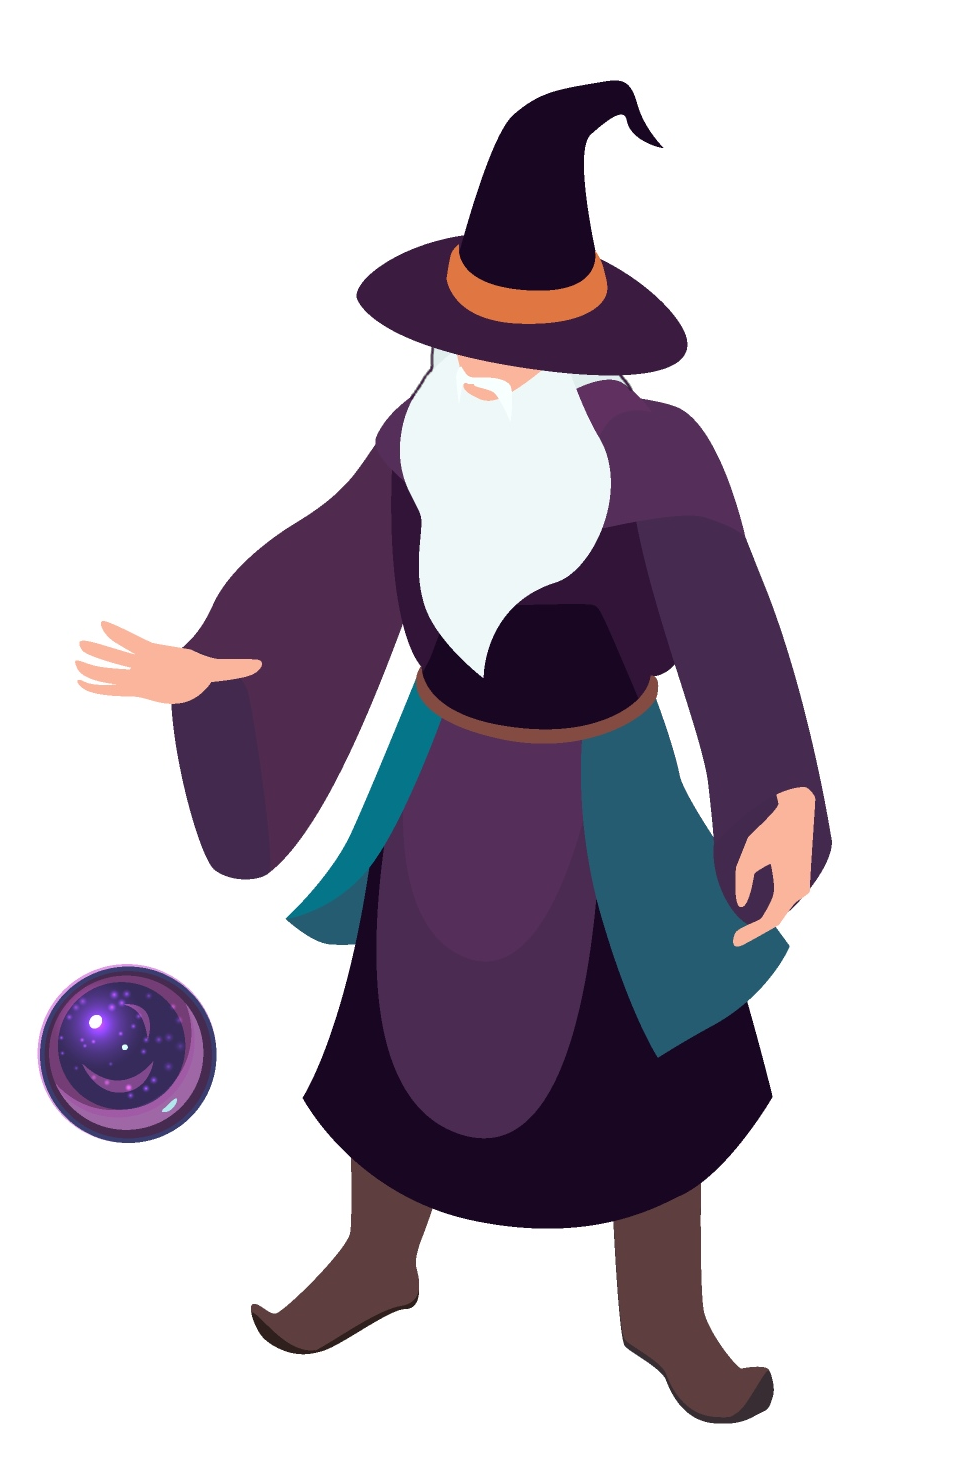
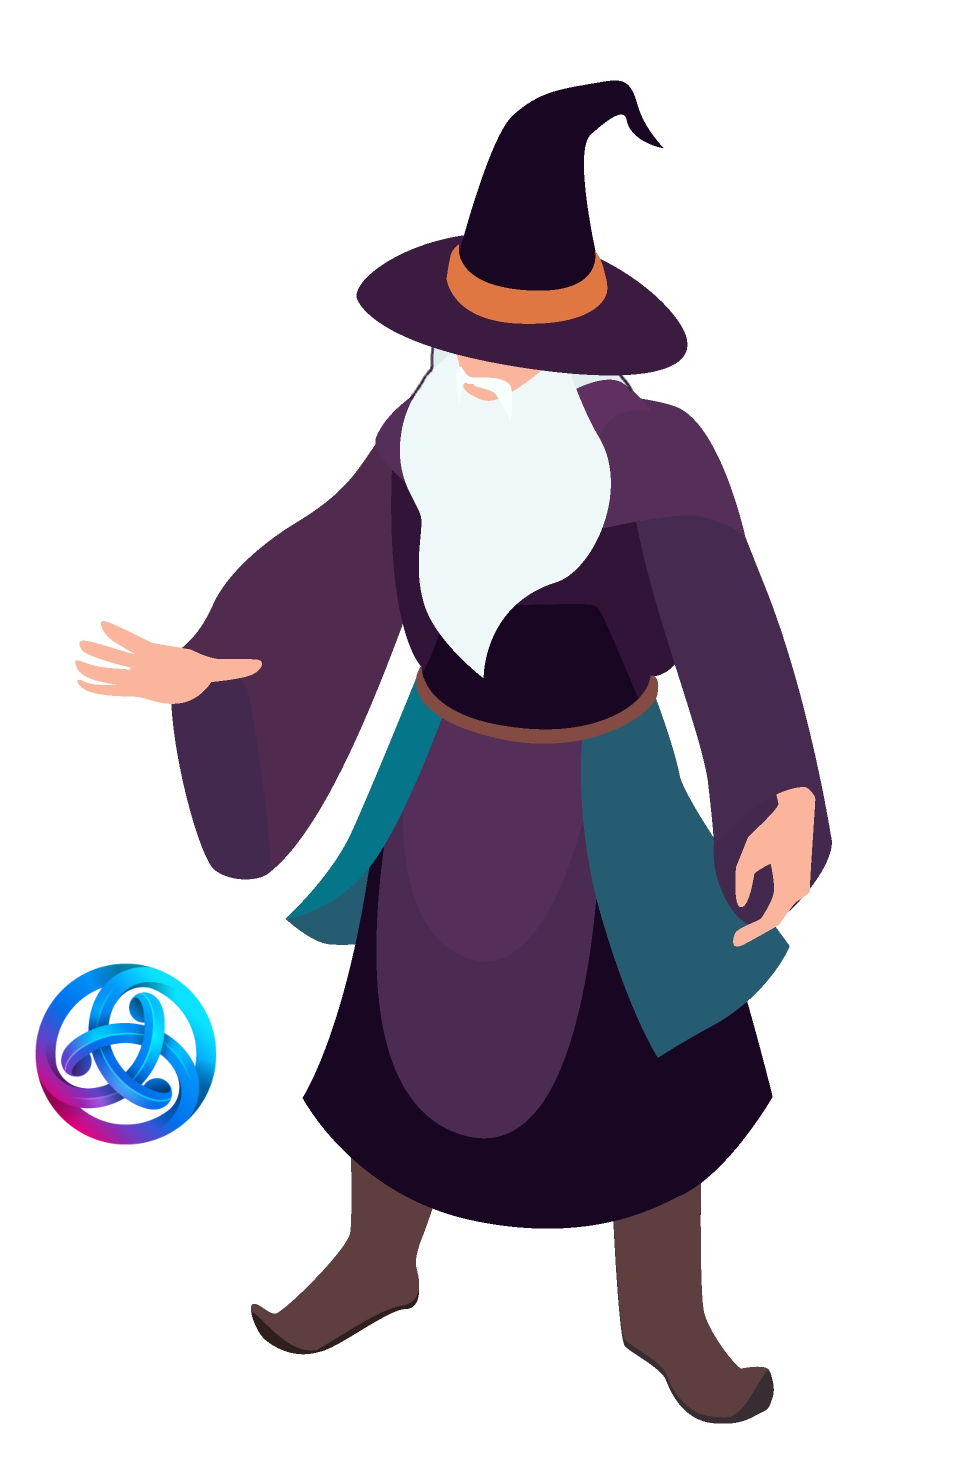
format loader

Changed region(s): [[0.0311, 0.6481, 0.2487, 0.8025]]

diff --git a/frontend/src/components/Form.tsx b/frontend/src/components/Form.tsx
@@ -7,6 +7,7 @@ import { useWallet } from 'useink';
 import { Button } from './Button';
 import { Gallery } from './Gallery';
 import InkFacts from './InkFacts';
+import wizard from '../assets/wizard.png';
 
 interface Props {
   awake: () => void;
@@ -31,7 +32,7 @@ export const MaginkForm = ({ awake, isAwake, remainingBlocks, runtimeError, badg
     <Form>
       {account && !isAwake && (
         <>
-        <p>Press Start for 10 short lessons about ink! and Astar Network</p>
+        <p>Press Start for ten swanky lessons about ink! and Astar Network</p>
         <br/>
         <Button type="button" disabled={isSubmitting || !isValid} onClick={awake}>
           Start

diff --git a/frontend/src/components/Loader.tsx b/frontend/src/components/Loader.tsx
@@ -4,7 +4,7 @@ export const Loader = ({ message }: { message: string }) => {
   return (
     <div className="overflow-hidden">
       <div className="container">
-        <img src={wizard} className="big-squid" alt="wizard" />
+        <img src={wizard} className="wizard" alt="wizard" />
         <div className="text-info">
           <h1>Swanky Magink! School</h1>
           <div className="tag-line">

diff --git a/frontend/src/App.css b/frontend/src/App.css
@@ -60,10 +60,13 @@ a {
 
 .wizard{
   position: absolute;
-  width:200px;
-  left:60%;
+  width:300px;
+  left:45%;
   opacity: 0.5;
   animation: hovering 4s infinite alternate;
+}
+.wizard-small{
+  width:50px;
 }
 
 @keyframes rise{
@@ -91,7 +94,7 @@ a {
 
 .text-info {
   @apply flex flex-col relative pb-5 ml-32 self-center z-10;
-  max-width: 480px;
+  max-width: 600px;
 }
 
 h1 {
